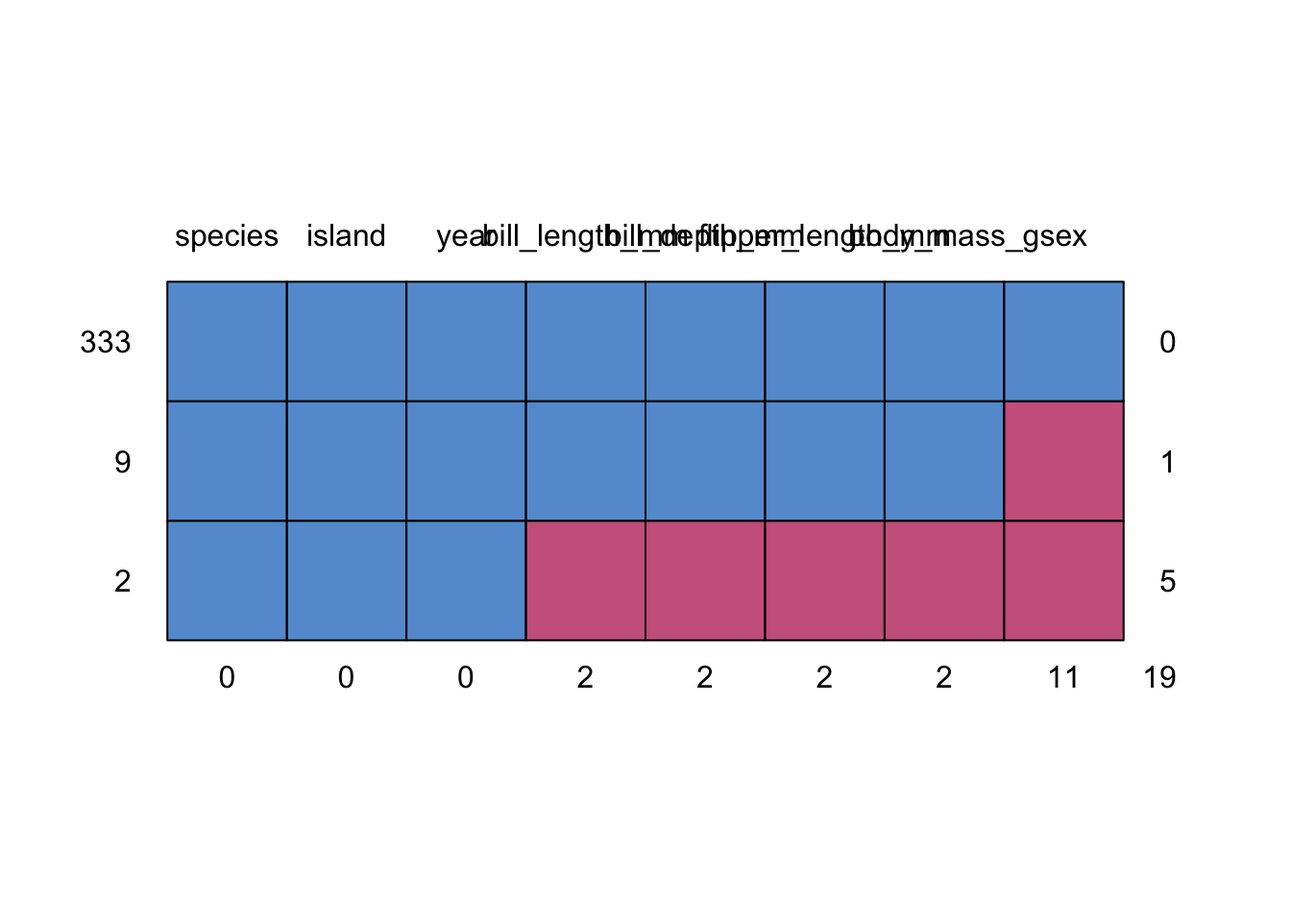
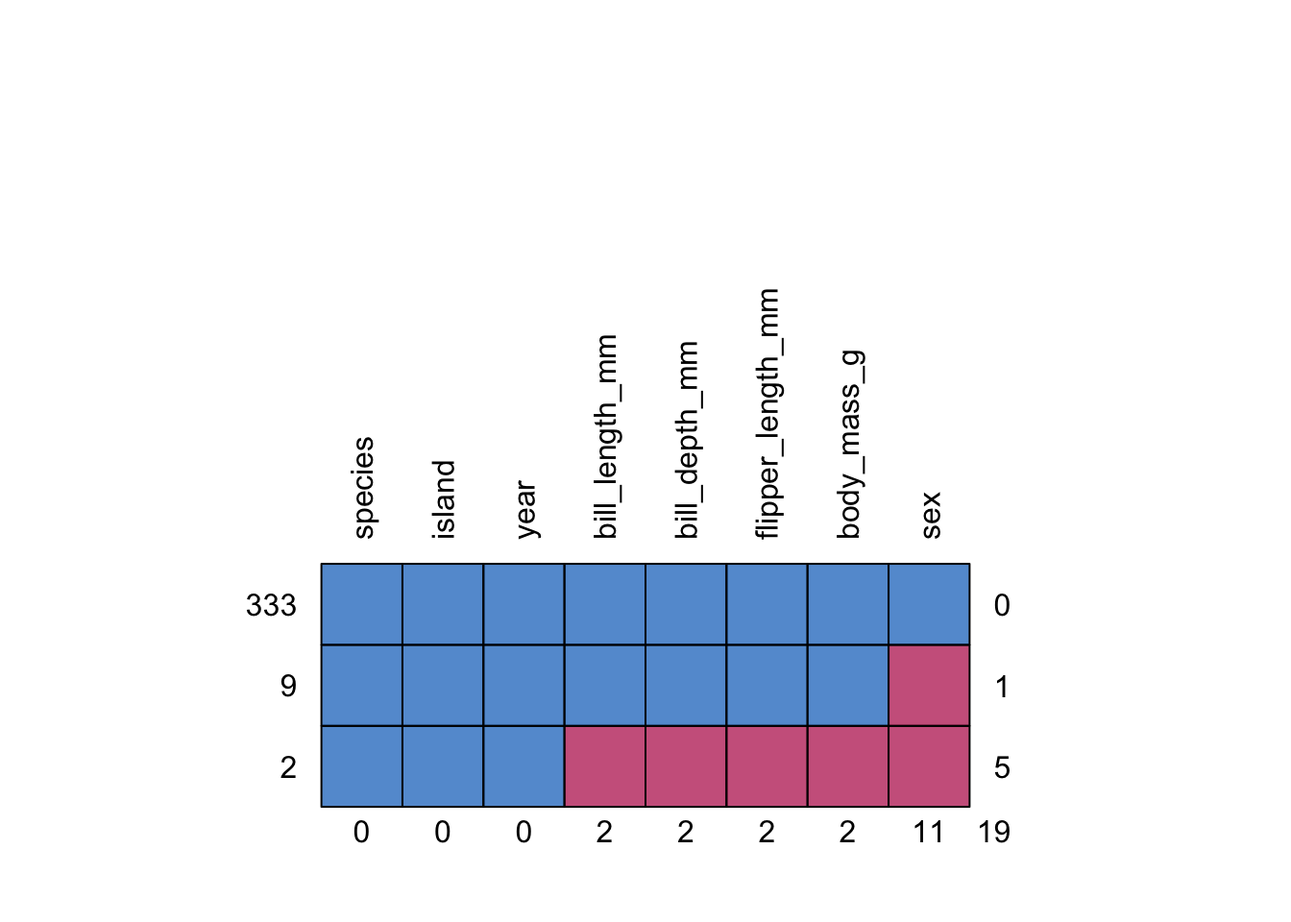
yeonkyupark published a site update

diff --git a/시각화.html b/시각화.html
@@ -30,7 +30,7 @@
 <meta name="author" content="PARK Yeonkyu" />
 
 
-<meta name="date" content="2022-03-07" />
+<meta name="date" content="2022-03-08" />
 
   <meta name="viewport" content="width=device-width, initial-scale=1" />
   <meta name="apple-mobile-web-app-capable" content="yes" />
@@ -193,24 +193,24 @@ code span.wa { color: #60a0b0; font-weight: bold; font-style: italic; } /* Warni
 <h1><span class="header-section-number">4</span> 시각화<a href="시각화.html#시각화" class="anchor-section" aria-label="Anchor link to header"></a></h1>
 <div id="확률분포-그래프-그리기" class="section level2 hasAnchor">
 <h2><span class="header-section-number">4.1</span> 확률분포 그래프 그리기<a href="시각화.html#확률분포-그래프-그리기" class="anchor-section" aria-label="Anchor link to header"></a></h2>
-<div class="sourceCode" id="cb18"><pre class="sourceCode r"><code class="sourceCode r"><span id="cb18-1"><a href="시각화.html#cb18-1"></a>dnorm_range &lt;-<span class="st"> </span><span class="cf">function</span>(x) {</span>
-<span id="cb18-2"><a href="시각화.html#cb18-2"></a>  y &lt;-<span class="st"> </span><span class="kw">dnorm</span>(x)</span>
-<span id="cb18-3"><a href="시각화.html#cb18-3"></a>  y[x <span class="op">&lt;</span><span class="st"> </span><span class="fl">-1.96</span> <span class="op">|</span><span class="st"> </span>x <span class="op">&gt;</span><span class="st"> </span><span class="fl">1.96</span>] &lt;-<span class="st"> </span><span class="ot">NA</span></span>
-<span id="cb18-4"><a href="시각화.html#cb18-4"></a>  <span class="kw">return</span>(y)</span>
-<span id="cb18-5"><a href="시각화.html#cb18-5"></a>}</span>
-<span id="cb18-6"><a href="시각화.html#cb18-6"></a></span>
-<span id="cb18-7"><a href="시각화.html#cb18-7"></a><span class="kw">ggplot</span>(<span class="dt">data =</span> <span class="kw">data.frame</span>(<span class="dt">x =</span> <span class="kw">c</span>(<span class="op">-</span><span class="dv">3</span>, <span class="dv">3</span>)), <span class="kw">aes</span>(x)) <span class="op">+</span></span>
-<span id="cb18-8"><a href="시각화.html#cb18-8"></a><span class="st">  </span><span class="kw">stat_function</span>(<span class="dt">fun =</span> dnorm, <span class="dt">n =</span> <span class="dv">101</span>, <span class="dt">args =</span> <span class="kw">list</span>(<span class="dt">mean =</span> <span class="dv">0</span>, <span class="dt">sd =</span> <span class="dv">1</span>)) <span class="op">+</span><span class="st"> </span></span>
-<span id="cb18-9"><a href="시각화.html#cb18-9"></a><span class="st">  </span><span class="kw">stat_function</span>(<span class="dt">fun=</span>dnorm_range, <span class="dt">geom=</span><span class="st">&quot;area&quot;</span>, <span class="dt">fill=</span><span class="st">&quot;grey&quot;</span>, <span class="dt">alpha =</span> <span class="fl">.5</span>) <span class="op">+</span></span>
-<span id="cb18-10"><a href="시각화.html#cb18-10"></a><span class="st">  </span><span class="kw">geom_vline</span>(<span class="dt">xintercept =</span> <span class="kw">c</span>(<span class="op">-</span><span class="fl">1.96</span>, <span class="fl">1.96</span>), <span class="dt">col=</span><span class="st">&quot;blue&quot;</span>, <span class="dt">linetype=</span><span class="st">&quot;dashed&quot;</span>) <span class="op">+</span></span>
-<span id="cb18-11"><a href="시각화.html#cb18-11"></a><span class="st">  </span><span class="kw">geom_text</span>(<span class="dt">x=</span><span class="kw">c</span>(<span class="op">-</span><span class="fl">1.96-0.2</span>, <span class="fl">1.96+0.2</span>), <span class="dt">y=</span><span class="fl">0.08</span>, </span>
-<span id="cb18-12"><a href="시각화.html#cb18-12"></a>            <span class="kw">aes</span>(<span class="dt">label =</span> <span class="kw">c</span>(<span class="st">&quot;-1.96&quot;</span>, <span class="st">&quot;1.96&quot;</span>)),</span>
-<span id="cb18-13"><a href="시각화.html#cb18-13"></a>            <span class="dt">col=</span><span class="st">&quot;blue&quot;</span>) <span class="op">+</span></span>
-<span id="cb18-14"><a href="시각화.html#cb18-14"></a><span class="st">  </span><span class="kw">geom_text</span>(<span class="dt">x=</span><span class="dv">0</span>, <span class="dt">y=</span><span class="fl">0.1</span>, <span class="kw">aes</span>(<span class="dt">label =</span> <span class="st">&quot;95%&quot;</span>), <span class="dt">col=</span><span class="st">&quot;darkgray&quot;</span>) <span class="op">+</span></span>
-<span id="cb18-15"><a href="시각화.html#cb18-15"></a><span class="st">  </span><span class="kw">labs</span>(<span class="dt">title =</span> <span class="st">&quot;Normal Distribution&quot;</span>, <span class="dt">x=</span><span class="st">&quot;x&quot;</span>, <span class="dt">y=</span><span class="st">&quot;&quot;</span>) <span class="op">+</span></span>
-<span id="cb18-16"><a href="시각화.html#cb18-16"></a><span class="st">  </span><span class="kw">scale_y_continuous</span>(<span class="dt">breaks =</span> <span class="ot">NULL</span>) <span class="op">+</span></span>
-<span id="cb18-17"><a href="시각화.html#cb18-17"></a><span class="st">  </span><span class="kw">theme_bw</span>()</span></code></pre></div>
-<p><img src="_main_files/figure-html/unnamed-chunk-16-1.png" width="672" /></p>
+<div class="sourceCode" id="cb23"><pre class="sourceCode r"><code class="sourceCode r"><span id="cb23-1"><a href="시각화.html#cb23-1"></a>dnorm_range &lt;-<span class="st"> </span><span class="cf">function</span>(x) {</span>
+<span id="cb23-2"><a href="시각화.html#cb23-2"></a>  y &lt;-<span class="st"> </span><span class="kw">dnorm</span>(x)</span>
+<span id="cb23-3"><a href="시각화.html#cb23-3"></a>  y[x <span class="op">&lt;</span><span class="st"> </span><span class="fl">-1.96</span> <span class="op">|</span><span class="st"> </span>x <span class="op">&gt;</span><span class="st"> </span><span class="fl">1.96</span>] &lt;-<span class="st"> </span><span class="ot">NA</span></span>
+<span id="cb23-4"><a href="시각화.html#cb23-4"></a>  <span class="kw">return</span>(y)</span>
+<span id="cb23-5"><a href="시각화.html#cb23-5"></a>}</span>
+<span id="cb23-6"><a href="시각화.html#cb23-6"></a></span>
+<span id="cb23-7"><a href="시각화.html#cb23-7"></a><span class="kw">ggplot</span>(<span class="dt">data =</span> <span class="kw">data.frame</span>(<span class="dt">x =</span> <span class="kw">c</span>(<span class="op">-</span><span class="dv">3</span>, <span class="dv">3</span>)), <span class="kw">aes</span>(x)) <span class="op">+</span></span>
+<span id="cb23-8"><a href="시각화.html#cb23-8"></a><span class="st">  </span><span class="kw">stat_function</span>(<span class="dt">fun =</span> dnorm, <span class="dt">n =</span> <span class="dv">101</span>, <span class="dt">args =</span> <span class="kw">list</span>(<span class="dt">mean =</span> <span class="dv">0</span>, <span class="dt">sd =</span> <span class="dv">1</span>)) <span class="op">+</span><span class="st"> </span></span>
+<span id="cb23-9"><a href="시각화.html#cb23-9"></a><span class="st">  </span><span class="kw">stat_function</span>(<span class="dt">fun=</span>dnorm_range, <span class="dt">geom=</span><span class="st">&quot;area&quot;</span>, <span class="dt">fill=</span><span class="st">&quot;grey&quot;</span>, <span class="dt">alpha =</span> <span class="fl">.5</span>) <span class="op">+</span></span>
+<span id="cb23-10"><a href="시각화.html#cb23-10"></a><span class="st">  </span><span class="kw">geom_vline</span>(<span class="dt">xintercept =</span> <span class="kw">c</span>(<span class="op">-</span><span class="fl">1.96</span>, <span class="fl">1.96</span>), <span class="dt">col=</span><span class="st">&quot;blue&quot;</span>, <span class="dt">linetype=</span><span class="st">&quot;dashed&quot;</span>) <span class="op">+</span></span>
+<span id="cb23-11"><a href="시각화.html#cb23-11"></a><span class="st">  </span><span class="kw">geom_text</span>(<span class="dt">x=</span><span class="kw">c</span>(<span class="op">-</span><span class="fl">1.96-0.2</span>, <span class="fl">1.96+0.2</span>), <span class="dt">y=</span><span class="fl">0.08</span>, </span>
+<span id="cb23-12"><a href="시각화.html#cb23-12"></a>            <span class="kw">aes</span>(<span class="dt">label =</span> <span class="kw">c</span>(<span class="st">&quot;-1.96&quot;</span>, <span class="st">&quot;1.96&quot;</span>)),</span>
+<span id="cb23-13"><a href="시각화.html#cb23-13"></a>            <span class="dt">col=</span><span class="st">&quot;blue&quot;</span>) <span class="op">+</span></span>
+<span id="cb23-14"><a href="시각화.html#cb23-14"></a><span class="st">  </span><span class="kw">geom_text</span>(<span class="dt">x=</span><span class="dv">0</span>, <span class="dt">y=</span><span class="fl">0.1</span>, <span class="kw">aes</span>(<span class="dt">label =</span> <span class="st">&quot;95%&quot;</span>), <span class="dt">col=</span><span class="st">&quot;darkgray&quot;</span>) <span class="op">+</span></span>
+<span id="cb23-15"><a href="시각화.html#cb23-15"></a><span class="st">  </span><span class="kw">labs</span>(<span class="dt">title =</span> <span class="st">&quot;Normal Distribution&quot;</span>, <span class="dt">x=</span><span class="st">&quot;x&quot;</span>, <span class="dt">y=</span><span class="st">&quot;&quot;</span>) <span class="op">+</span></span>
+<span id="cb23-16"><a href="시각화.html#cb23-16"></a><span class="st">  </span><span class="kw">scale_y_continuous</span>(<span class="dt">breaks =</span> <span class="ot">NULL</span>) <span class="op">+</span></span>
+<span id="cb23-17"><a href="시각화.html#cb23-17"></a><span class="st">  </span><span class="kw">theme_bw</span>()</span></code></pre></div>
+<p><img src="_main_files/figure-html/unnamed-chunk-19-1.png" width="672" /></p>
 
 </div>
 </div>

diff --git a/데이터-전처리.html b/데이터-전처리.html
@@ -30,7 +30,7 @@
 <meta name="author" content="PARK Yeonkyu" />
 
 
-<meta name="date" content="2022-03-07" />
+<meta name="date" content="2022-03-08" />
 
   <meta name="viewport" content="width=device-width, initial-scale=1" />
   <meta name="apple-mobile-web-app-capable" content="yes" />
@@ -229,7 +229,7 @@ code span.wa { color: #60a0b0; font-weight: bold; font-style: italic; } /* Warni
 <div class="sourceCode" id="cb7"><pre class="sourceCode r"><code class="sourceCode r"><span id="cb7-1"><a href="데이터-전처리.html#cb7-1"></a><span class="kw">marginplot</span>(penguins[<span class="kw">c</span>(<span class="dv">3</span><span class="op">:</span><span class="dv">4</span>)], <span class="dt">pch=</span><span class="dv">20</span>, <span class="dt">col=</span><span class="kw">c</span>(<span class="st">&quot;darkgray&quot;</span>, <span class="st">&quot;red&quot;</span>, <span class="st">&quot;blue&quot;</span>))</span></code></pre></div>
 <p><img src="_main_files/figure-html/unnamed-chunk-8-1.png" width="672" /></p>
 <p><code>mice</code> 패키지 <code>md.pattern()</code> 함수를 이용해서도 결측치를 확인할 수 있다.</p>
-<div class="sourceCode" id="cb8"><pre class="sourceCode r"><code class="sourceCode r"><span id="cb8-1"><a href="데이터-전처리.html#cb8-1"></a><span class="kw">md.pattern</span>(penguins)</span></code></pre></div>
+<div class="sourceCode" id="cb8"><pre class="sourceCode r"><code class="sourceCode r"><span id="cb8-1"><a href="데이터-전처리.html#cb8-1"></a><span class="kw">md.pattern</span>(penguins, <span class="dt">plot =</span> T, <span class="dt">rotate.names =</span> T)</span></code></pre></div>
 <p><img src="_main_files/figure-html/unnamed-chunk-9-1.png" width="672" /></p>
 <pre><code>##     species island year bill_length_mm bill_depth_mm flipper_length_mm
 ## 333       1      1    1              1             1                 1
@@ -263,12 +263,9 @@ code span.wa { color: #60a0b0; font-weight: bold; font-style: italic; } /* Warni
 <div id="na값을-제거하고-평균-계산" class="section level5 hasAnchor">
 <h5><span class="header-section-number">2.1.3.1.1</span> NA값을 제거하고 평균 계산<a href="데이터-전처리.html#na값을-제거하고-평균-계산" class="anchor-section" aria-label="Anchor link to header"></a></h5>
 <div class="sourceCode" id="cb12"><pre class="sourceCode r"><code class="sourceCode r"><span id="cb12-1"><a href="데이터-전처리.html#cb12-1"></a>p &lt;-<span class="st"> </span>penguins[<span class="kw">c</span>(<span class="dv">3</span><span class="op">:</span><span class="dv">6</span>)]</span>
-<span id="cb12-2"><a href="데이터-전처리.html#cb12-2"></a><span class="cf">for</span>(i <span class="cf">in</span> <span class="kw">colnames</span>(p)) { </span>
-<span id="cb12-3"><a href="데이터-전처리.html#cb12-3"></a>  p[<span class="kw">is.na</span>(p[,i]), i] &lt;-<span class="st"> </span><span class="dv">0</span></span>
-<span id="cb12-4"><a href="데이터-전처리.html#cb12-4"></a>}</span>
-<span id="cb12-5"><a href="데이터-전처리.html#cb12-5"></a><span class="kw">colMeans</span>(p)</span></code></pre></div>
+<span id="cb12-2"><a href="데이터-전처리.html#cb12-2"></a><span class="kw">colMeans</span>(p, <span class="dt">na.rm =</span> T)</span></code></pre></div>
 <pre><code>##    bill_length_mm     bill_depth_mm flipper_length_mm       body_mass_g 
-##          43.66657          17.05145         199.74709        4177.32558</code></pre>
+##          43.92193          17.15117         200.91520        4201.75439</code></pre>
 </div>
 <div id="으로-대체" class="section level5 hasAnchor">
 <h5><span class="header-section-number">2.1.3.1.2</span> 0으로 대체<a href="데이터-전처리.html#으로-대체" class="anchor-section" aria-label="Anchor link to header"></a></h5>
@@ -282,17 +279,40 @@ code span.wa { color: #60a0b0; font-weight: bold; font-style: italic; } /* Warni
 </div>
 <div id="평균으로-대체" class="section level5 hasAnchor">
 <h5><span class="header-section-number">2.1.3.1.3</span> 평균으로 대체<a href="데이터-전처리.html#평균으로-대체" class="anchor-section" aria-label="Anchor link to header"></a></h5>
-<div class="sourceCode" id="cb16"><pre class="sourceCode r"><code class="sourceCode r"><span id="cb16-1"><a href="데이터-전처리.html#cb16-1"></a>p.mean &lt;-<span class="st"> </span>penguins[<span class="kw">c</span>(<span class="dv">3</span><span class="op">:</span><span class="dv">6</span>)]</span>
-<span id="cb16-2"><a href="데이터-전처리.html#cb16-2"></a><span class="cf">for</span>(i <span class="cf">in</span> <span class="kw">colnames</span>(p.mean)) { </span>
-<span id="cb16-3"><a href="데이터-전처리.html#cb16-3"></a>  p.mean[<span class="kw">is.na</span>(p.mean[,i]), i] &lt;-<span class="st"> </span><span class="dv">0</span></span>
-<span id="cb16-4"><a href="데이터-전처리.html#cb16-4"></a>}</span>
-<span id="cb16-5"><a href="데이터-전처리.html#cb16-5"></a><span class="kw">colMeans</span>(p.mean)</span></code></pre></div>
+<div class="sourceCode" id="cb16"><pre class="sourceCode r"><code class="sourceCode r"><span id="cb16-1"><a href="데이터-전처리.html#cb16-1"></a>p.mean &lt;-<span class="st"> </span><span class="kw">as.data.frame</span>(penguins[<span class="kw">c</span>(<span class="dv">3</span><span class="op">:</span><span class="dv">6</span>)])</span>
+<span id="cb16-2"><a href="데이터-전처리.html#cb16-2"></a>all_column_mean &lt;-<span class="st"> </span><span class="kw">apply</span>(p.mean, <span class="dv">2</span>, mean, <span class="dt">na.rm=</span>T)</span>
+<span id="cb16-3"><a href="데이터-전처리.html#cb16-3"></a><span class="cf">for</span>(i <span class="cf">in</span> <span class="kw">colnames</span>(p.mean)) { </span>
+<span id="cb16-4"><a href="데이터-전처리.html#cb16-4"></a>  p.mean[<span class="kw">is.na</span>(p.mean[,i]), i] &lt;-<span class="st"> </span>all_column_mean[i]</span>
+<span id="cb16-5"><a href="데이터-전처리.html#cb16-5"></a>}</span>
+<span id="cb16-6"><a href="데이터-전처리.html#cb16-6"></a><span class="kw">colMeans</span>(p.mean)</span></code></pre></div>
 <pre><code>##    bill_length_mm     bill_depth_mm flipper_length_mm       body_mass_g 
-##          43.66657          17.05145         199.74709        4177.32558</code></pre>
+##          43.92193          17.15117         200.91520        4201.75439</code></pre>
 </div>
 </div>
 <div id="다중-대체" class="section level4 hasAnchor">
 <h4><span class="header-section-number">2.1.3.2</span> 다중 대체<a href="데이터-전처리.html#다중-대체" class="anchor-section" aria-label="Anchor link to header"></a></h4>
+<p>시뮬레이션을 통해 제시된 최적의 해로 대체한다. <code>MICE</code>와 `<code>Amelia</code>가 다중 대체법을 지원하는 대표적인 패키지이다.</p>
+<div class="sourceCode" id="cb18"><pre class="sourceCode r"><code class="sourceCode r"><span id="cb18-1"><a href="데이터-전처리.html#cb18-1"></a>p.mice &lt;-<span class="st"> </span><span class="kw">mice</span>(penguins, <span class="dt">m=</span><span class="dv">1</span>)</span></code></pre></div>
+<pre><code>## 
+##  iter imp variable
+##   1   1  bill_length_mm  bill_depth_mm  flipper_length_mm  body_mass_g  sex
+##   2   1  bill_length_mm  bill_depth_mm  flipper_length_mm  body_mass_g  sex
+##   3   1  bill_length_mm  bill_depth_mm  flipper_length_mm  body_mass_g  sex
+##   4   1  bill_length_mm  bill_depth_mm  flipper_length_mm  body_mass_g  sex
+##   5   1  bill_length_mm  bill_depth_mm  flipper_length_mm  body_mass_g  sex</code></pre>
+<div class="sourceCode" id="cb20"><pre class="sourceCode r"><code class="sourceCode r"><span id="cb20-1"><a href="데이터-전처리.html#cb20-1"></a>p.mice.complete &lt;-<span class="st"> </span><span class="kw">complete</span>(p.mice,<span class="dv">1</span>)</span></code></pre></div>
+<p><strong>제거/대체를 통해 데이터 정제한 평균값 비교</strong></p>
+<div class="sourceCode" id="cb21"><pre class="sourceCode r"><code class="sourceCode r"><span id="cb21-1"><a href="데이터-전처리.html#cb21-1"></a><span class="kw">rbind</span>(</span>
+<span id="cb21-2"><a href="데이터-전처리.html#cb21-2"></a>  <span class="dt">P.orig =</span> <span class="kw">colMeans</span>(p, <span class="dt">na.rm =</span> T),</span>
+<span id="cb21-3"><a href="데이터-전처리.html#cb21-3"></a>  <span class="dt">P.zero =</span> <span class="kw">colMeans</span>(p<span class="fl">.0</span>),</span>
+<span id="cb21-4"><a href="데이터-전처리.html#cb21-4"></a>  <span class="dt">P.mean =</span> <span class="kw">colMeans</span>(p.mean),</span>
+<span id="cb21-5"><a href="데이터-전처리.html#cb21-5"></a>  <span class="dt">p.mice =</span> <span class="kw">colMeans</span>(p.mice.complete[<span class="kw">c</span>(<span class="dv">3</span><span class="op">:</span><span class="dv">6</span>)])</span>
+<span id="cb21-6"><a href="데이터-전처리.html#cb21-6"></a>)</span></code></pre></div>
+<pre><code>##        bill_length_mm bill_depth_mm flipper_length_mm body_mass_g
+## P.orig       43.92193      17.15117          200.9152    4201.754
+## P.zero       43.66657      17.05145          199.7471    4177.326
+## P.mean       43.92193      17.15117          200.9152    4201.754
+## p.mice       43.92558      17.14738          200.9273    4203.125</code></pre>
 
 </div>
 </div>

diff --git a/데이터-검정.html b/데이터-검정.html
@@ -30,7 +30,7 @@
 <meta name="author" content="PARK Yeonkyu" />
 
 
-<meta name="date" content="2022-03-07" />
+<meta name="date" content="2022-03-08" />
 
   <meta name="viewport" content="width=device-width, initial-scale=1" />
   <meta name="apple-mobile-web-app-capable" content="yes" />
@@ -194,9 +194,9 @@ code span.wa { color: #60a0b0; font-weight: bold; font-style: italic; } /* Warni
 <div id="정규성-검정" class="section level2 hasAnchor">
 <h2><span class="header-section-number">5.1</span> 정규성 검정<a href="데이터-검정.html#정규성-검정" class="anchor-section" aria-label="Anchor link to header"></a></h2>
 <p>정규분포를 따른 통계분석 기법을 사용하기 위해서는 표본의 정규성 여부를 확인해야 한다. 정규성 검정은 <code>shapiro.test()</code> 함수나 <code>qqnorm()</code> 함수를 통해 확인할 수 있다.</p>
-<div class="sourceCode" id="cb19"><pre class="sourceCode r"><code class="sourceCode r"><span id="cb19-1"><a href="데이터-검정.html#cb19-1"></a><span class="kw">set.seed</span>(<span class="dv">123</span>)</span>
-<span id="cb19-2"><a href="데이터-검정.html#cb19-2"></a>sample &lt;-<span class="st"> </span><span class="kw">rnorm</span>(<span class="dv">100</span>, <span class="dt">mean=</span><span class="dv">100</span>, <span class="dt">sd=</span><span class="dv">10</span>) <span class="co"># 정규분포 상의 표본 생성</span></span></code></pre></div>
-<div class="sourceCode" id="cb20"><pre class="sourceCode r"><code class="sourceCode r"><span id="cb20-1"><a href="데이터-검정.html#cb20-1"></a><span class="kw">shapiro.test</span>(sample)</span></code></pre></div>
+<div class="sourceCode" id="cb24"><pre class="sourceCode r"><code class="sourceCode r"><span id="cb24-1"><a href="데이터-검정.html#cb24-1"></a><span class="kw">set.seed</span>(<span class="dv">123</span>)</span>
+<span id="cb24-2"><a href="데이터-검정.html#cb24-2"></a>sample &lt;-<span class="st"> </span><span class="kw">rnorm</span>(<span class="dv">100</span>, <span class="dt">mean=</span><span class="dv">100</span>, <span class="dt">sd=</span><span class="dv">10</span>) <span class="co"># 정규분포 상의 표본 생성</span></span></code></pre></div>
+<div class="sourceCode" id="cb25"><pre class="sourceCode r"><code class="sourceCode r"><span id="cb25-1"><a href="데이터-검정.html#cb25-1"></a><span class="kw">shapiro.test</span>(sample)</span></code></pre></div>
 <pre><code>## 
 ##  Shapiro-Wilk normality test
 ## 
@@ -204,22 +204,22 @@ code span.wa { color: #60a0b0; font-weight: bold; font-style: italic; } /* Warni
 ## W = 0.99388, p-value = 0.9349</code></pre>
 <p>Shapiro-Wilk 정규성 검정은 주어진 표본이 정규성을 따른다는 귀무가설을 검정한다. p값이 0.9349으로 귀무가설을 채택한다. 즉 주어진 표본은 정규성을 따른다고 판단된다.</p>
 <p>qqnorm() 함수와 qqline() 함수는 정규성 여부를 시각화 한다.</p>
-<div class="sourceCode" id="cb22"><pre class="sourceCode r"><code class="sourceCode r"><span id="cb22-1"><a href="데이터-검정.html#cb22-1"></a><span class="kw">qqnorm</span>(sample, <span class="dt">col=</span><span class="st">&quot;blue&quot;</span>, <span class="dt">main =</span> <span class="st">&quot;Sample from Normal Distribution&quot;</span>)</span>
-<span id="cb22-2"><a href="데이터-검정.html#cb22-2"></a><span class="kw">qqline</span>(sample)</span></code></pre></div>
-<p><img src="_main_files/figure-html/unnamed-chunk-19-1.png" width="672" /></p>
+<div class="sourceCode" id="cb27"><pre class="sourceCode r"><code class="sourceCode r"><span id="cb27-1"><a href="데이터-검정.html#cb27-1"></a><span class="kw">qqnorm</span>(sample, <span class="dt">col=</span><span class="st">&quot;blue&quot;</span>, <span class="dt">main =</span> <span class="st">&quot;Sample from Normal Distribution&quot;</span>)</span>
+<span id="cb27-2"><a href="데이터-검정.html#cb27-2"></a><span class="kw">qqline</span>(sample)</span></code></pre></div>
+<p><img src="_main_files/figure-html/unnamed-chunk-22-1.png" width="672" /></p>
 <p>참고로 일양분포(uniform distribution)로 생성된 표본의 경우 정규성 검정 결과는 다음과 같다.</p>
-<div class="sourceCode" id="cb23"><pre class="sourceCode r"><code class="sourceCode r"><span id="cb23-1"><a href="데이터-검정.html#cb23-1"></a><span class="kw">set.seed</span>(<span class="dv">123</span>)</span>
-<span id="cb23-2"><a href="데이터-검정.html#cb23-2"></a>sample_uni &lt;-<span class="st"> </span><span class="kw">runif</span>(<span class="dv">100</span>, <span class="dt">min=</span><span class="dv">2</span>, <span class="dt">max=</span><span class="dv">4</span>)</span></code></pre></div>
-<div class="sourceCode" id="cb24"><pre class="sourceCode r"><code class="sourceCode r"><span id="cb24-1"><a href="데이터-검정.html#cb24-1"></a><span class="kw">shapiro.test</span>(sample_uni)</span></code></pre></div>
+<div class="sourceCode" id="cb28"><pre class="sourceCode r"><code class="sourceCode r"><span id="cb28-1"><a href="데이터-검정.html#cb28-1"></a><span class="kw">set.seed</span>(<span class="dv">123</span>)</span>
+<span id="cb28-2"><a href="데이터-검정.html#cb28-2"></a>sample_uni &lt;-<span class="st"> </span><span class="kw">runif</span>(<span class="dv">100</span>, <span class="dt">min=</span><span class="dv">2</span>, <span class="dt">max=</span><span class="dv">4</span>)</span></code></pre></div>
+<div class="sourceCode" id="cb29"><pre class="sourceCode r"><code class="sourceCode r"><span id="cb29-1"><a href="데이터-검정.html#cb29-1"></a><span class="kw">shapiro.test</span>(sample_uni)</span></code></pre></div>
 <pre><code>## 
 ##  Shapiro-Wilk normality test
 ## 
 ## data:  sample_uni
 ## W = 0.95237, p-value = 0.001192</code></pre>
 <p>p값이 0.0012로 귀무가설을 기각한다. 즉 주어진 표본은 정규성을 따른다고 판단할 수 없다.</p>
-<div class="sourceCode" id="cb26"><pre class="sourceCode r"><code class="sourceCode r"><span id="cb26-1"><a href="데이터-검정.html#cb26-1"></a><span class="kw">qqnorm</span>(sample_uni, <span class="dt">col=</span><span class="st">&quot;red&quot;</span>, <span class="dt">main =</span> <span class="st">&quot;Sample from Uniform Distribution&quot;</span>)</span>
-<span id="cb26-2"><a href="데이터-검정.html#cb26-2"></a><span class="kw">qqline</span>(sample_uni)</span></code></pre></div>
-<p><img src="_main_files/figure-html/unnamed-chunk-22-1.png" width="672" /></p>
+<div class="sourceCode" id="cb31"><pre class="sourceCode r"><code class="sourceCode r"><span id="cb31-1"><a href="데이터-검정.html#cb31-1"></a><span class="kw">qqnorm</span>(sample_uni, <span class="dt">col=</span><span class="st">&quot;red&quot;</span>, <span class="dt">main =</span> <span class="st">&quot;Sample from Uniform Distribution&quot;</span>)</span>
+<span id="cb31-2"><a href="데이터-검정.html#cb31-2"></a><span class="kw">qqline</span>(sample_uni)</span></code></pre></div>
+<p><img src="_main_files/figure-html/unnamed-chunk-25-1.png" width="672" /></p>
 
 </div>
 </div>

diff --git a/index.html b/index.html
@@ -30,7 +30,7 @@
 <meta name="author" content="PARK Yeonkyu" />
 
 
-<meta name="date" content="2022-03-07" />
+<meta name="date" content="2022-03-08" />
 
   <meta name="viewport" content="width=device-width, initial-scale=1" />
   <meta name="apple-mobile-web-app-capable" content="yes" />
@@ -192,7 +192,7 @@ code span.wa { color: #60a0b0; font-weight: bold; font-style: italic; } /* Warni
 <div id="header">
 <h1 class="title">R을 이용한 데이터 분석</h1>
 <p class="author"><em>PARK Yeonkyu</em></p>
-<p class="date"><em>2022-03-07</em></p>
+<p class="date"><em>2022-03-08</em></p>
 </div>
 <div id="시작하기" class="section level1 unnumbered hasAnchor">
 <h1>시작하기<a href="index.html#시작하기" class="anchor-section" aria-label="Anchor link to header"></a></h1>

diff --git a/404.html b/404.html
@@ -30,7 +30,7 @@
 <meta name="author" content="PARK Yeonkyu" />
 
 
-<meta name="date" content="2022-03-07" />
+<meta name="date" content="2022-03-08" />
 
   <meta name="viewport" content="width=device-width, initial-scale=1" />
   <meta name="apple-mobile-web-app-capable" content="yes" />

diff --git a/데이터-시각화.html b/데이터-시각화.html
@@ -30,7 +30,7 @@
 <meta name="author" content="PARK Yeonkyu" />
 
 
-<meta name="date" content="2022-03-07" />
+<meta name="date" content="2022-03-08" />
 
   <meta name="viewport" content="width=device-width, initial-scale=1" />
   <meta name="apple-mobile-web-app-capable" content="yes" />

diff --git a/데이터-탐색.html b/데이터-탐색.html
@@ -30,7 +30,7 @@
 <meta name="author" content="PARK Yeonkyu" />
 
 
-<meta name="date" content="2022-03-07" />
+<meta name="date" content="2022-03-08" />
 
   <meta name="viewport" content="width=device-width, initial-scale=1" />
   <meta name="apple-mobile-web-app-capable" content="yes" />
